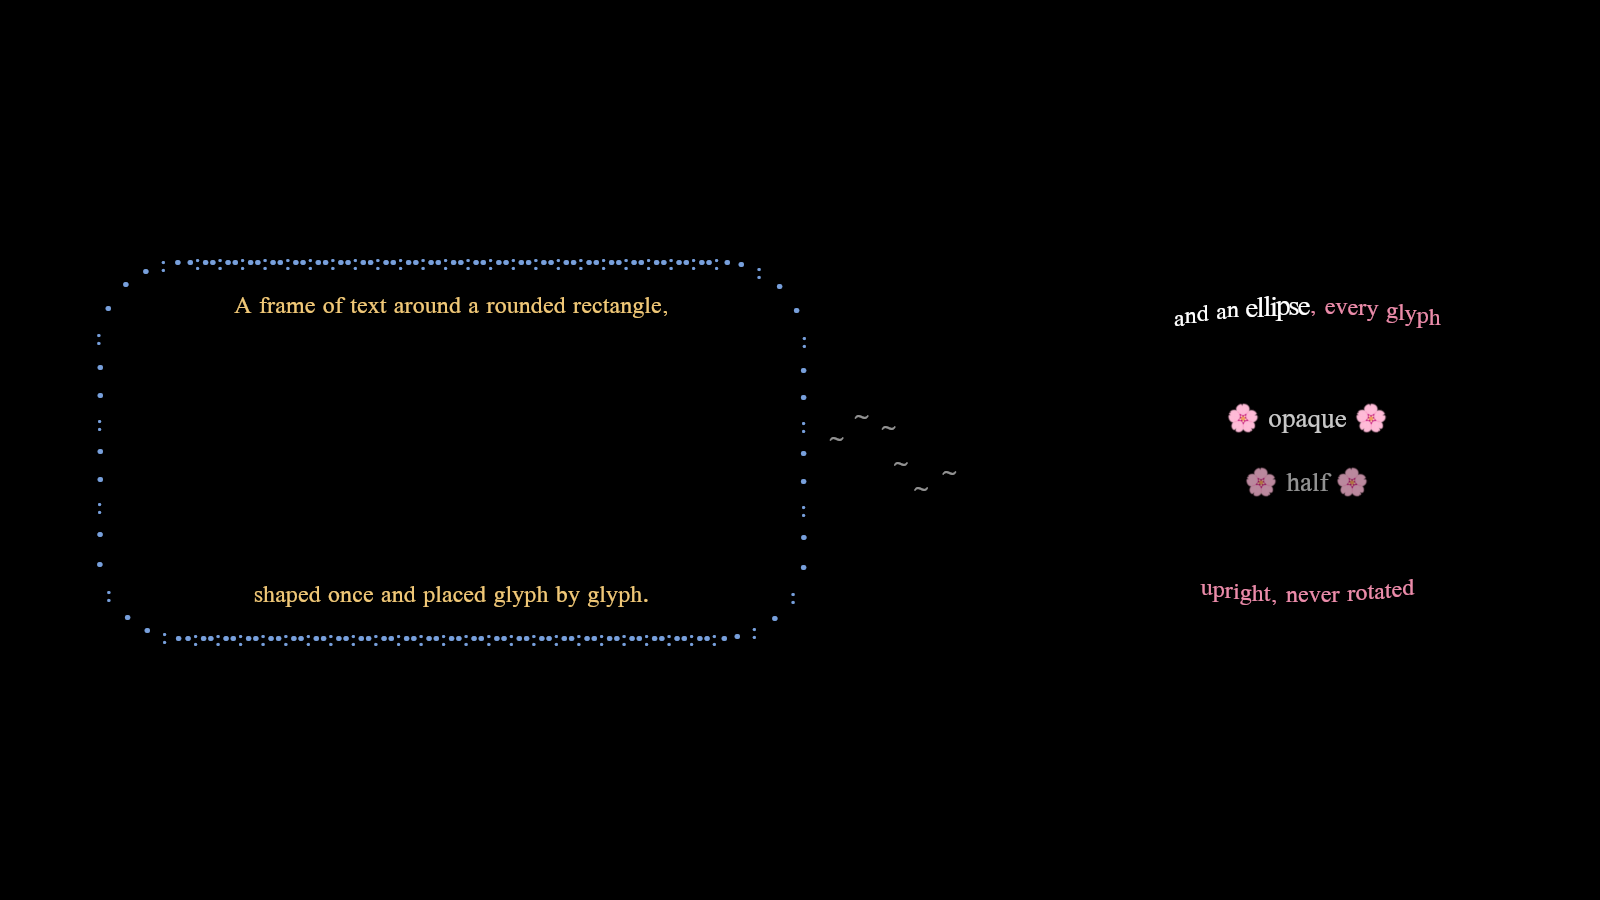
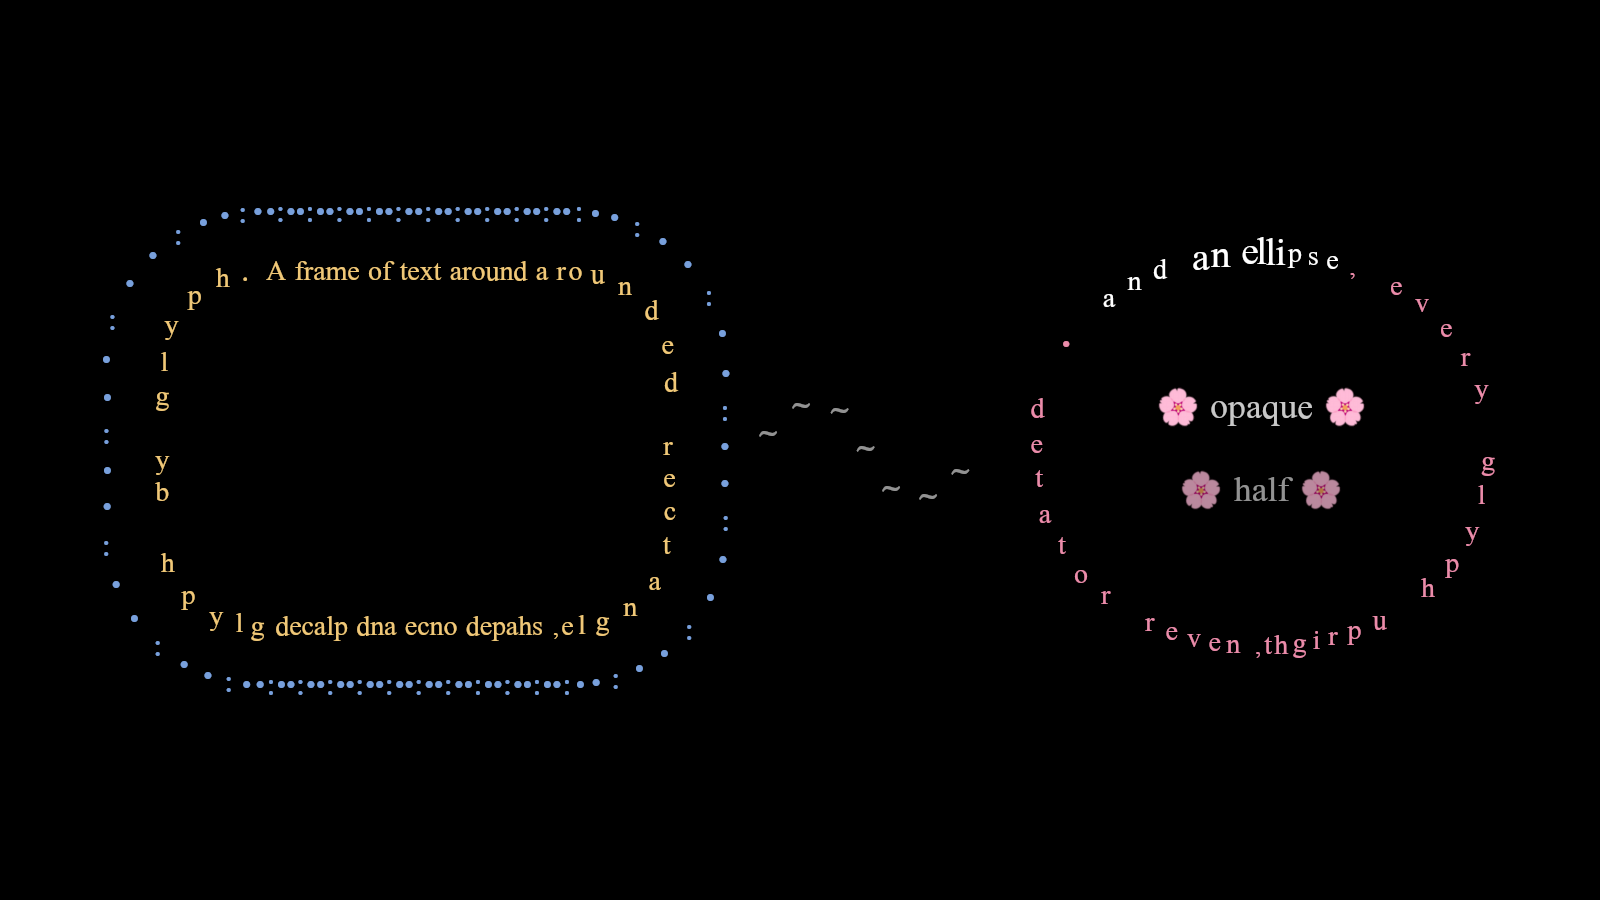
Revert "README: readable demo images, frame text set on two lines"
The owner rejected the two-line renders ("Those look terrible"). Main
goes back to the images the owner approved earlier.

This reverts commit 1e564bdd.

Claude-Session: https://claude.ai/code/session_017pLhzvfHKkgTCvLcR2to94

diff --git a/README.md b/README.md
@@ -13,34 +13,30 @@ connection paths — is laid out as positioned font glyphs.
 
 Every mark in these images is a font glyph. Glyphs are never rotated:
 curves are made by placing upright glyphs along a path, the way ASCII
-art makes them. Text in a frame is set like an inscription on a coin:
-one line arcs over the top and one runs under the bottom, each read left
-to right. Each image is drawn by the new glyph-run renderer in a
+art makes them. Each image is drawn by the new glyph-run renderer in a
 single draw call. They are rendered offscreen from the V1 work in
 progress ([#230](https://github.com/Svendsys/mandala/issues/230)); the
 app draws this way once V1 lands.
 
-![Ecclesiastes 3 as a mind map: "To every thing there is a season" at the center, with "and a time to every" above it and "purpose under the heaven:" below it inside a ring of ornaments, and six child nodes joined by glyph connectors](docs/images/demo-ecclesiastes.png)
+![Ecclesiastes 3 as a mind map: "To every thing there is a season" at the center, framed by "and a time to every purpose under the heaven", with six child nodes joined by glyph connectors](docs/images/demo-ecclesiastes.png)
 
-*Ecclesiastes 3:1–8 (King James Version) as a mind map: the center
-node's frame holds two lines of text inside a ring of ornaments, and
-each child sits in a frame of ornaments, joined by glyph connectors.*
+*Ecclesiastes 3:1–8 (King James Version) as a mind map: each node in a
+frame of text or ornaments, joined by glyph connectors.*
 
-![William Blake's Auguries of Innocence in two lines over and under a ring of ornaments, with Psalm 19:1 in two lines inside it](docs/images/demo-blake.png)
+![William Blake's Auguries of Innocence fitted once around an ellipse, with Psalm 19:1 on an inner ring](docs/images/demo-blake.png)
 
-*William Blake, "Auguries of Innocence", in two lines over and under
-an ellipse of ornaments, with Psalm 19:1 (King James Version) in two
-lines inside it.*
+*William Blake, "Auguries of Innocence", fitted exactly once around an
+ellipse, with Psalm 19:1 (King James Version) on an inner ring.*
 
 ![Emily Dickinson's "Hope" is the thing with feathers, the letters of "feathers" drifting up and fading](docs/images/demo-dickinson.png)
 
 *Emily Dickinson, "'Hope' is the thing with feathers": one frame of an
 animation, with each glyph offset, scaled and faded on its own.*
 
-![Two lines of text in a rounded rectangle and in an ellipse, joined by a connector, with emoji markers at full and half opacity](docs/images/demo-frames.png)
+![Text around a rounded rectangle and an ellipse, joined by a connector, with emoji markers at full and half opacity](docs/images/demo-frames.png)
 
-*Two lines of text in a rounded rectangle and in an ellipse, a
-connector at half opacity, and emoji at full and half opacity.*
+*Text around a rounded rectangle and an ellipse, a connector at half
+opacity, and emoji at full and half opacity.*
 
 ## What..?
 
